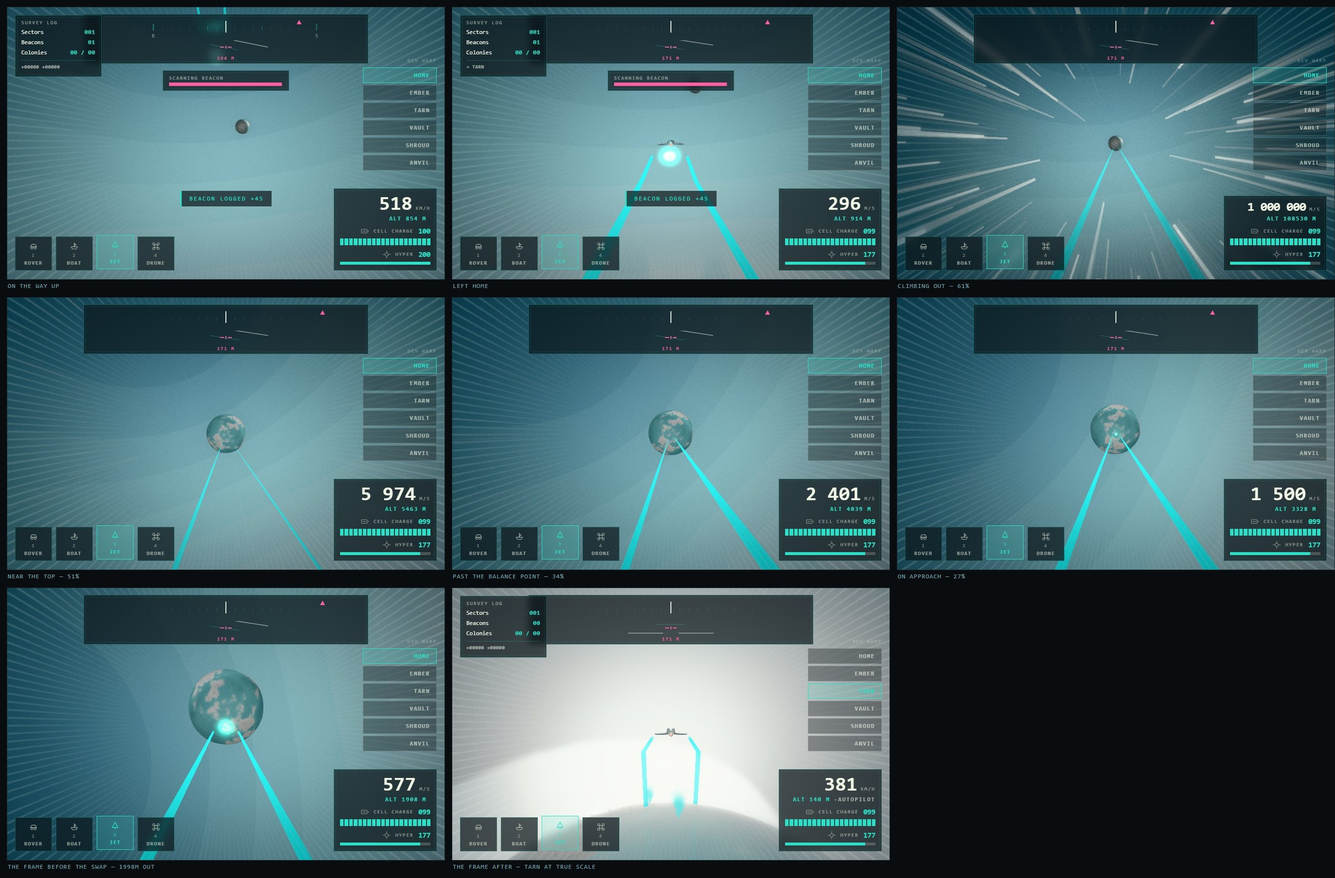
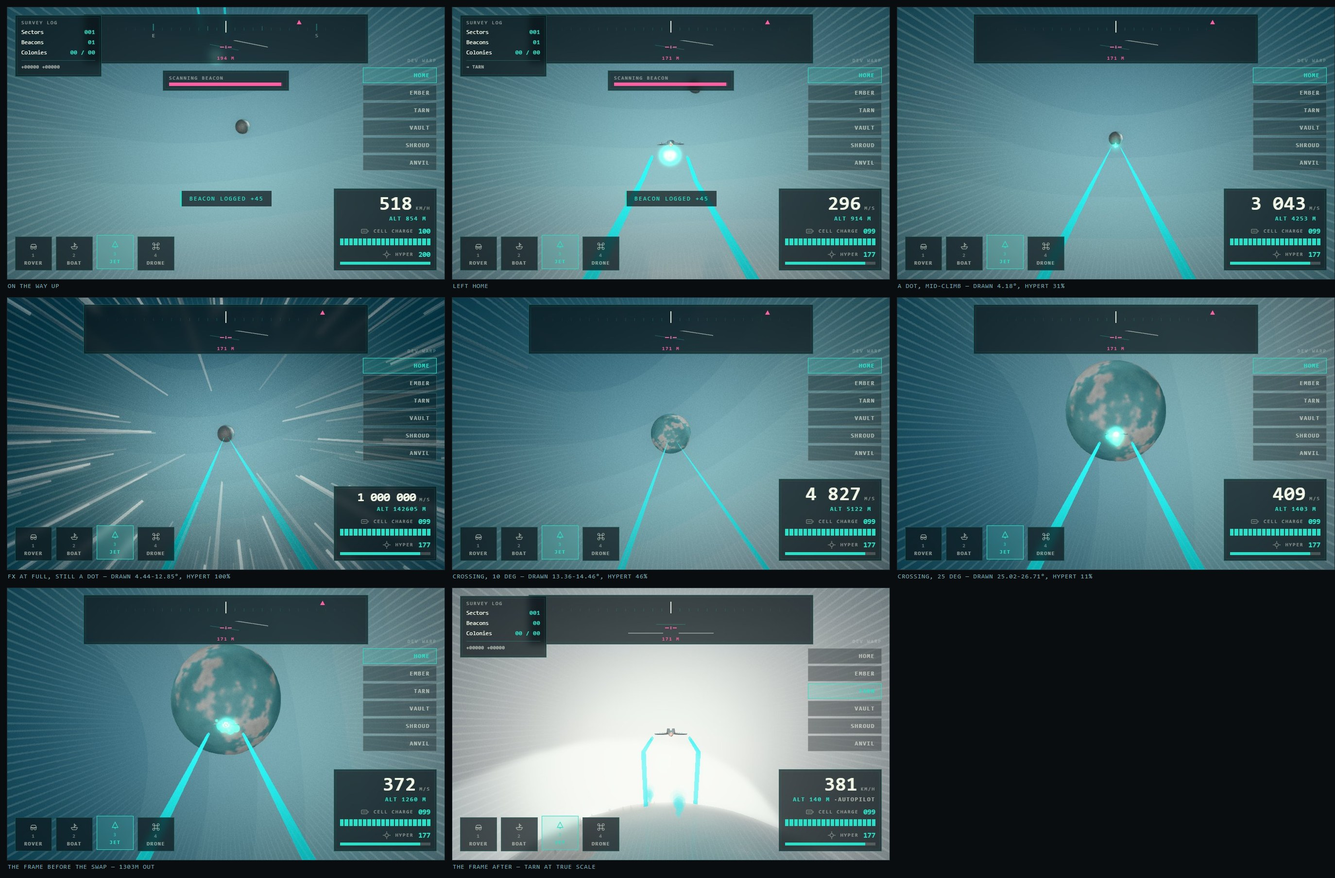
Surveyor: the speed FX peak against an empty sky, and hyperT is why
Phase 5 bullet 3. The audit came first and its answer is that no FX term is
wrong in kind: aberration, grain and vignette are t^2, the streaks ride a
threshold on t, CAM.hyperFov and hyperDist are t through a lag. Every one is
a fraction of the trip. The terms that ARE in seconds are all small - the
worst is the music lead at 9.1% of a ten-second leg, and the lagged FOV
reaches 73.8% of its push on a long trip against 72.0% on a short one.

hyperT itself is the term that is wrong in kind. It is log(speed)/log(cap),
and the log of v0*2^(a/H) is exactly a/aCap, so the one number every effect
follows is linear in ALTITUDE while the picture is a function of DISTANCE.
Measured at 60Hz: the destination holds the far band's floor near 5.7 degrees
for the whole climb, crosses 8 to 20 degrees in 0.4s on a long leg and 0.15s
on a short one, and the FX peak 1.2s before the fastest growth. The frame
captioned "FX at full, still a dot" is the whole finding. No intensity fixes
it; closing it means driving the FX by something other than speed alone,
which contradicts main.js's own claim and the symmetry run.mjs asserts.
Left as a decision, nothing tuned.

Two assertions pin both halves so it cannot be re-lost. And the harness that
hid it is fixed: crosscheck's filmstrip gated four stages on hyperT, which
peaks at the midpoint, so all four landed within a second of each other -
289.9km to 7.2km of separation across a 20.5s crossing - and reported that
[…]

diff --git a/games/surveyor/docs/seamless-space.md b/games/surveyor/docs/seamless-space.md
@@ -2,13 +2,16 @@
 
 **Repo:** portfolio · **Target:** `games/surveyor/`
 
-**Status: in progress.** Phases 1 to 4 have shipped and phase 5 is two bullets
-of three — see the phase log at the bottom of this file and the matching
-sections in `../README.md`. What is left is bullet 3, the speed FX against real
-geometry, plus the parked residual handoff step. Do not
-start until the graphics transplants (T2, T3) are done. This is a systems change
-to a game that currently works, and it should land on top of finished lighting
-rather than underneath it.
+**Status: in progress.** Phases 1 to 4 have shipped. Phase 5's three bullets
+are all measured; bullets 1 and 2 shipped and **bullet 3 is audited, measured
+and open on one decision** — the FX crescendo lands on an empty sky because
+`hyperT` is altitude and the picture is distance, which no intensity can fix.
+See the phase log at the bottom of this file. The residual handoff step stays
+parked.
+
+This was a systems change to a game that already worked, and the instruction it
+opened with — do not start until the graphics transplants T2 and T3 are done —
+was honoured: it landed on top of finished lighting rather than underneath it.
 
 ---
 
@@ -273,13 +276,81 @@ And these are the LEG, boundary to boundary; the 8.7s escape burn that gets you
 to the boundary is flying rather than travelling and is deliberately not in the
 number, so door to door a first crossing is about 29s and a repeat about 19s.
 
-### Bullet 3 is untouched
+## Bullet 3 — AUDITED AND MEASURED, and the answer is a decision, not a value
 
-Re-check the speed FX against real approaching geometry. `hyperT` is a function
-of speed, not of time, so it still spans its full range on a short trip and the
-peak is unchanged — only the dwell shortens. Judge them against
-`cross-home-tarn.jpg` and `cross-home-tarn-repeat.jpg`, which are the same
-crossing at both lengths.
+### The term audit, which came first
+
+Every FX term the crossing drives, and which kind it is:
+
+| term | kind | of a 20s leg | of a 10s leg |
+|---|---|---|---|
+| `hyperAberration` 34, `hyperAberrationRadial` 22 | fraction of t² | — | — |
+| `hyperGrain` 2.6, `hyperVignette` 1.2 | fraction of t² | — | — |
+| `streakFrom` 0.16, `streakLen` .55, alpha/width ramps | fraction of t | — | — |
+| `CAM.hyperFov` 0.62 rad, `hyperDist` 1.9 | fraction of t | — | — |
+| streak scroll `0.35 + k*5.5` | a RATE, per second — correct in kind | — | — |
+| `streakBox` 260m | spatial, not temporal | — | — |
+| `CAM.hyperLerp` 1.6/s (FOV) | seconds, τ = 0.63s | 3.1% | 6.3% |
+| `CAM.posLerp` 7.5/s (boom) | seconds, τ = 0.13s | 0.7% | 1.3% |
+| camera tilt damp 6/s | seconds, τ = 0.17s | 0.8% | 1.7% |
+| music intensity 1.6/s, lead 1.1/s | seconds, τ = 0.63 / 0.91s | 3.1 / 4.5% | 6.3 / 9.1% |
+| sfx layer glides | seconds, ≤ 0.10s | ≤ 0.5% | ≤ 1.0% |
+| `GRAV.turn` 0.9 rad/s (the bank) | seconds, π/0.9 = 3.49s | 17.4% | **34.9%** |
+
+**No FX term is wrong in kind, and none of the ones in seconds is large enough
+to matter** — the worst is the music lead at 9.1% of a short leg, and the
+lagged FOV reaches 73.8% of its push on a long trip against 72.0% on a short
+one, a difference of under two per cent. The ATMO block's own claim, that
+everything rides one number and nothing needs its own ramp, holds.
+
+### The term that IS wrong in kind is `hyperT`
+
+`hyperT` is `log(speed)/log(cap)`, and the log of `v0·2^(a/H)` is **exactly
+`a/aCap`** — so the single number every effect follows is linear in ALTITUDE.
+The picture is a function of DISTANCE TO THE DESTINATION. Altitude climbs and
+falls symmetrically; distance only ever decreases. Measured at 60Hz, home to
+Anvil, both laws:
+
+- the destination holds the far band's floor near **5.7° for the entire climb**
+  — 533.7km out at departure, 529.4km at halfway, because a climb is not an
+  approach
+- it crosses 8° to 20° in **0.4s** on the long leg and **0.15s** on the short one
+- the FX peak at 48-49% of the trip; the fastest growth is at 55-60%. An offset
+  of about **1.2 seconds** — 6% of a long leg, 12% of a short one
+
+The filmstrips say it in one frame. `FX at full, still a dot` is a full streak
+blast at 1,000,000 m/s with the destination a four-degree grey billboard; two
+frames later the world is real and textured and the streaks are gone. **The
+effects were tuned against an empty sky, and the reason they still look tuned
+against an empty sky is that at the moment they play, the sky IS empty.**
+
+That is not fixable by tuning an intensity. Closing it means driving the FX by
+something other than speed alone, which contradicts the design's central claim
+(`js/main.js`: "everything is a plain function of hyperT, so there is no state
+to leave switched on") and the symmetry `run.mjs` asserts. **It is a decision.**
+
+### What shipped instead
+
+Two assertions in `run.mjs` that pin both halves of the finding, so it cannot
+be re-lost, and a fix to the harness that was hiding it: `crosscheck`'s
+filmstrip gated its four stages on `hyperT`, which peaks at the midpoint, so
+all four landed within about a second of each other — 289.9km to 7.2km of
+separation across a 20.5s crossing. It reported that the world grew, and the
+world does grow, over that second. The stages gate on the destination's drawn
+angle now, and captions are read either side of the shutter and print a range
+when they disagree; the first cut of that captioned a frame `4.45°` whose own
+pixel probe measured 12.85°.
+
+### The 1.7s upright, which was asked about
+
+**It is invisible, and that is a property of the camera rather than of the
+bank.** `ChaseCam` takes its up from `craft.transit.up`, so the craft is always
+level in frame and the handover shows only as the destination ROTATING — and a
+sphere with no readable surface detail does not show rotation. Detail arrives
+about a second before the swap; the bank has settled by 89% of a short trip,
+which is 1.2s before arrival. So the short trip's later settle costs nothing
+that can be seen, and `GRAV.turn` was not touched. The margin is about one
+second, and that is the thing to watch if a leg ever goes below ten.
 
 ---
 

diff --git a/games/surveyor/ARCHITECTURE.md b/games/surveyor/ARCHITECTURE.md
@@ -132,6 +132,35 @@ banded cel lighting; there is **no PBRMaterial anywhere**.
   `ARRIVE.alt`, 0.35R, always at or below where the sphere was crossed. A
   world's limb enters the chase view at 0.41-0.42 radii on all six, so 900m
   absolute framed Anvil and missed Ember by a factor of ten.
+- **`hyperT` IS ALTITUDE. THE PICTURE IS DISTANCE. They are not the same
+  journey.** Every speed FX reads `craft.hyperT` and nothing else — aberration,
+  grain and vignette as t², the streaks off a threshold on t, the camera's FOV
+  and boom as t through a lag — so all of them are fractions of the trip and
+  none is wrong in kind. `hyperT` is where it goes wrong: it is
+  `log(speed)/log(cap)`, and the log of `v0·2^(a/H)` is **exactly `a/aCap`**, so
+  the one number every effect follows is linear in ALTITUDE. Altitude climbs
+  and falls symmetrically about the midpoint; distance to the destination only
+  ever decreases. The two can agree at one instant and do: the cap is reached
+  at the midpoint, which is a consequence of the speed law rather than anything
+  tuned. But the FX peak at 48-49% of a crossing and the destination's fastest
+  growth is at 55-60% — an offset of about 1.2 SECONDS, which is 6% of a
+  twenty-second leg and 12% of a ten-second one. Measured: the destination
+  holds the far band's compressed floor near 5.7 degrees for the whole climb
+  (533.7km out at departure, 529.4km at halfway — a climb is not an approach),
+  then crosses 8 to 20 degrees in 0.4s on a long trip and **0.15s on a short
+  one**, by which time the streaks are at a fifth of their peak. The filmstrip
+  frame captioned `FX at full, still a dot` is the whole of it: every effect at
+  maximum against a four-degree grey dot. Two assertions in `run.mjs` pin both
+  halves. This is not fixable by tuning an intensity, and anything claiming to
+  have made the approach read better has to move those numbers.
+- **The bank is invisible in transit, and that is a property of the camera.**
+  `ChaseCam` takes its up from `craft.transit.up`, so the craft is always level
+  in frame and a handover bank shows only as the DESTINATION rotating — and a
+  sphere with no readable surface detail does not show rotation. Detail arrives
+  in roughly the last second before the swap; the bank has settled by 82% of a
+  long crossing and 89% of a short one. So the short trip's later settle costs
+  nothing visible, and the margin is about one second. Do not measure this by
+  photographing the craft.
 - **Measure who is looking before measuring what changed.** The far-body to
   quadtree handoff was taken apart across most of a session — size, luminance,
   silhouette, three shader terms — and then the arrival was photographed from
@@ -173,7 +202,7 @@ started carry a phase log of what actually shipped and where the plan was wrong.
 
 | plan | status |
 |---|---|
-| `docs/seamless-space.md` | phases 1-4 shipped; phase 5 bullets 1-2 done, bullet 3 (speed FX) left |
+| `docs/seamless-space.md` | phases 1-4 shipped; phase 5 bullets 1-2 done, bullet 3 measured and open on one decision |
 | `docs/day-and-night.md` | parked. After Seamless Space — it changes lighting |
 | `docs/colony-architecture.md` | parked. Does not conflict with Seamless Space |
 
@@ -428,7 +457,22 @@ measured), and
 `rotationQuaternion` every animation frame and reports the step across each
 boundary, plus a filmstrip. `--repeat` flies the SHORT crossing — a throwaway
 profile has never flown, so the default is the long first trip, which is the
-one nobody makes twice; the two write separate sheets. The maths version lives in `run.mjs`; this is the
+one nobody makes twice; the two write separate sheets.
+**Its filmstrip gates on the destination's DRAWN ANGLE, not on `hyperT`.** The
+four hyperT gates it used to carry all landed within about a second of the
+midpoint, because hyperT is altitude and altitude peaks there — the four stages
+of a 20.5s crossing spanned 289.9km to 7.2km of separation, which is to say
+they photographed the one second in which the journey happens and nothing of
+the twenty either side, and then reported that the world grew. Drawn angle is
+monotone, so a gate cannot be missed by overshooting it, which matters at
+SwiftShader's five frames a second. It **cannot** measure the timing itself:
+the game clamps dt at 0.05s a frame, so the band this is all about is one or
+two steps to it — that measurement lives in `run.mjs` at 60Hz.
+Captions are read either side of the shutter and print a RANGE when the two
+disagree, because the gate returns one frame and the screenshot lands a frame
+or three later: the first cut captioned a frame `4.45 deg` whose own pixel
+probe measured 12.85. Pausing would be exact and is not available — `setPaused`
+shows the pause card, plays a sound and replays away-time on resume. The maths version lives in `run.mjs`; this is the
 one that can catch the game drawing something other than what the maths says).
 `dev/history/` is the pre-import repo bundle.
 
